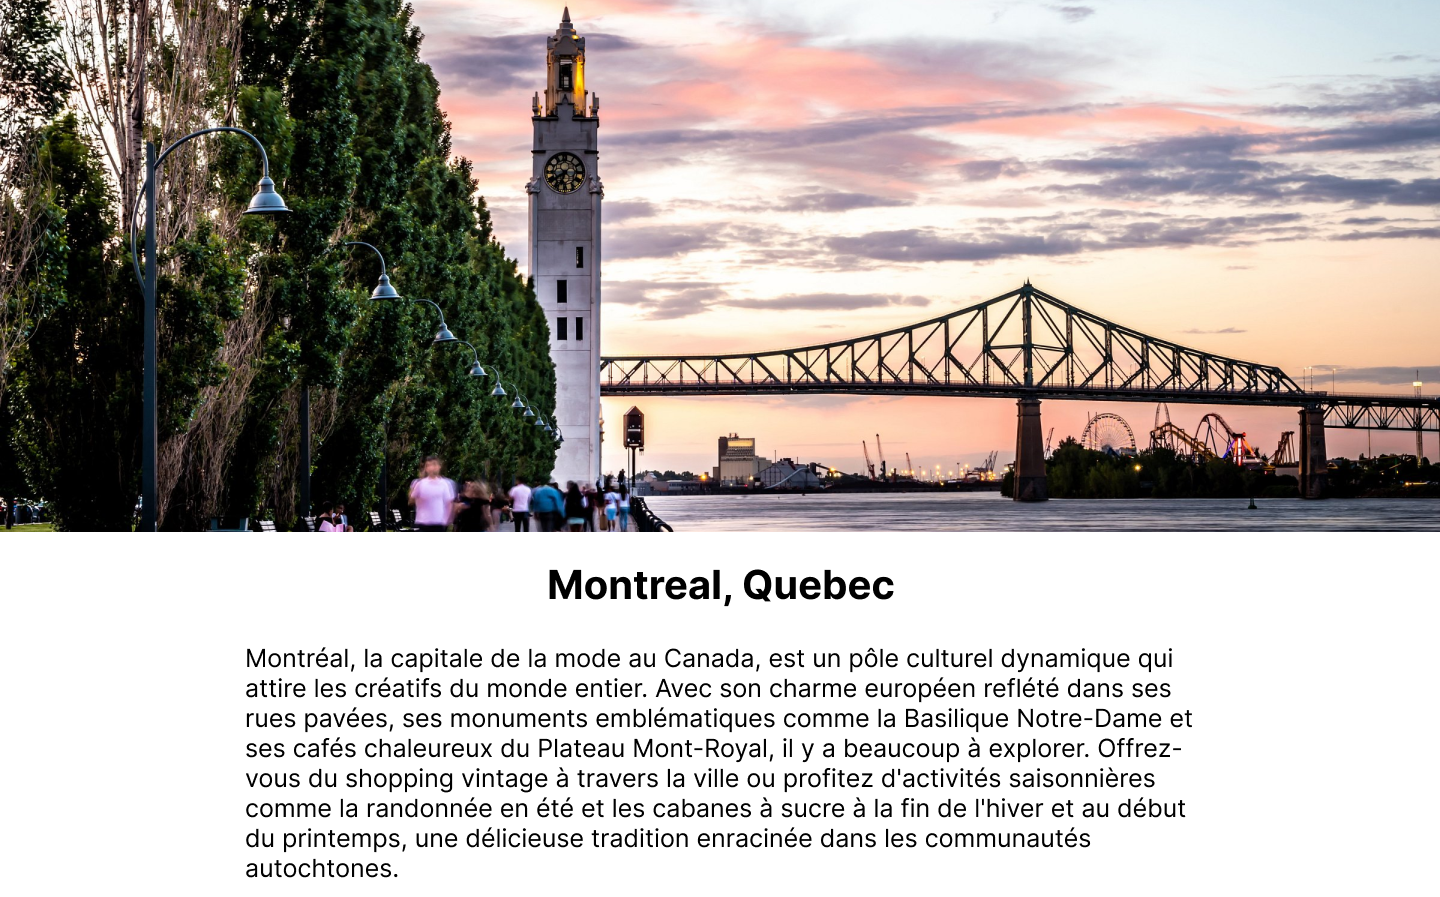
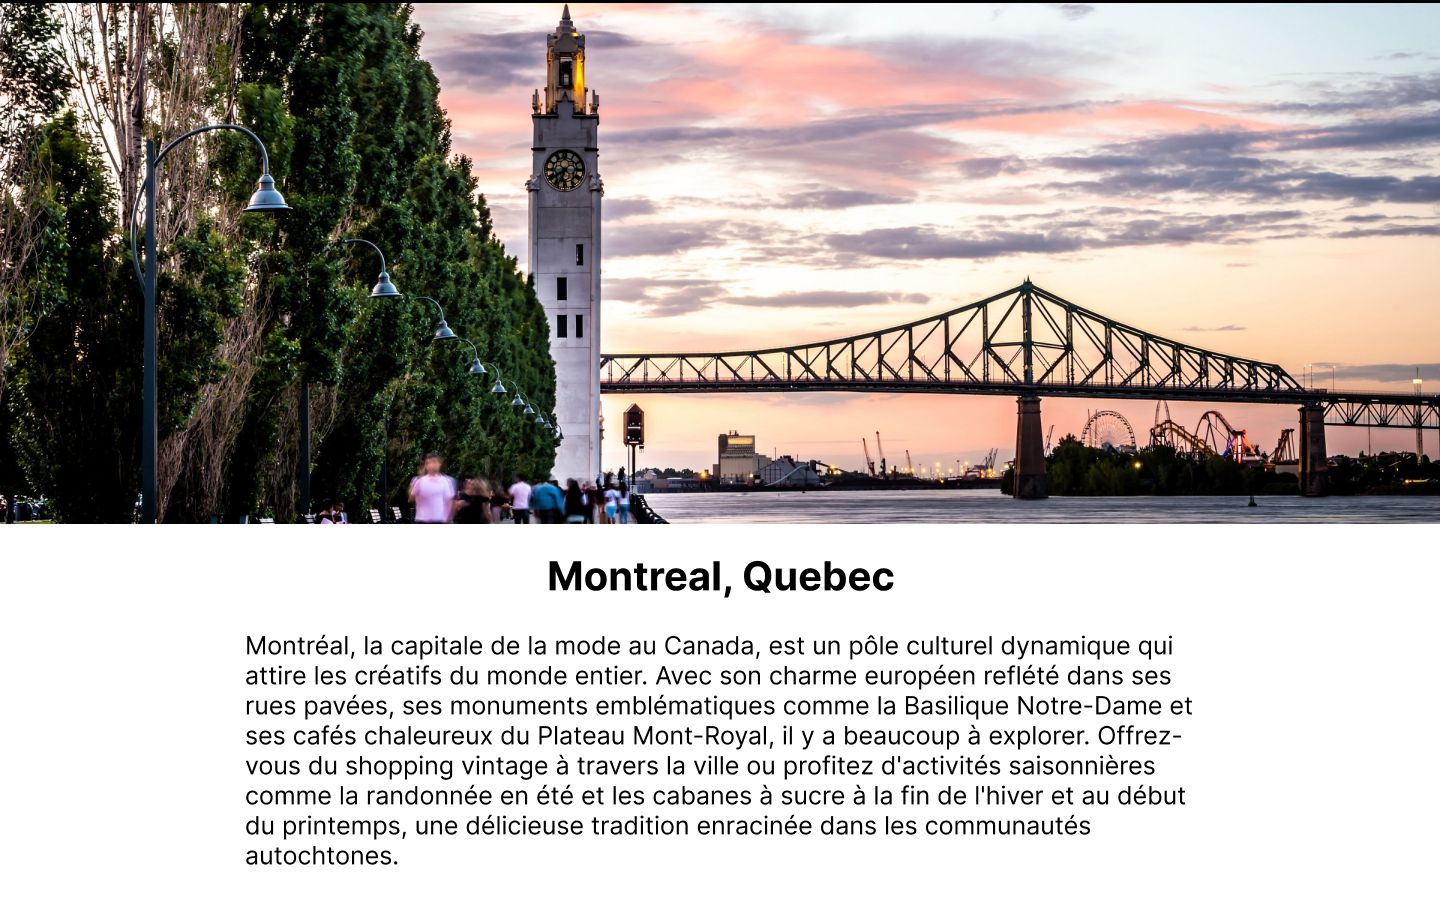
m

Changed region(s): [[0.0, 0.0, 1.0, 0.5931], [0.1562, 0.6243, 0.8438, 0.9989], [0.7188, 0.0936, 0.7812, 0.1249]]

diff --git a/MrCanadaData/French Montreal Restaurants/content.html b/MrCanadaData/French Montreal Restaurants/content.html
@@ -1,3 +1,3 @@
 <html>
-<img src= width="1080" height="338">
+<img src= width="1080" height="1013">
 </html>

diff --git a/MrCanadaData/French Toronto Restaurants/content.html b/MrCanadaData/French Toronto Restaurants/content.html
@@ -1,3 +1,3 @@
 <html>
-<img src= width="1080" height="935">
+<img src= width="1080" height="1013">
 </html>

diff --git a/MrCanadaData/French Montreal PlacesOfWorship/content.html b/MrCanadaData/French Montreal PlacesOfWorship/content.html
@@ -1,3 +1,3 @@
 <html>
-<img src= width="1080" height="336">
+<img src= width="1080" height="673">
 </html>

diff --git a/MrCanadaData/French DestinationCatalog/thumbnail.html b/MrCanadaData/French DestinationCatalog/thumbnail.html
@@ -1,3 +1,3 @@
 <html>
-<img src= width="219" height="19">
+<img src= width="200" height="50">
 </html>

diff --git a/MrCanadaData/French Montreal Back/thumbnail.html b/MrCanadaData/French Montreal Back/thumbnail.html
@@ -1,3 +1,3 @@
 <html>
-<img src= width="200" height="60">
+<img src= width="200" height="50">
 </html>

diff --git a/MrCanadaData/French Montreal/thumbnail.html b/MrCanadaData/French Montreal/thumbnail.html
@@ -1,3 +1,3 @@
 <html>
-<img src= width="200" height="60">
+<img src= width="187" height="60">
 </html>

diff --git a/MrCanadaData/French Quebec City Back/thumbnail.html b/MrCanadaData/French Quebec City Back/thumbnail.html
@@ -1,3 +1,3 @@
 <html>
-<img src= width="200" height="60">
+<img src= width="200" height="50">
 </html>

diff --git a/MrCanadaData/French Quebec City/thumbnail.html b/MrCanadaData/French Quebec City/thumbnail.html
@@ -1,3 +1,3 @@
 <html>
-<img src= width="150" height="35">
+<img src= width="250" height="60">
 </html>

diff --git a/MrCanadaData/French Toronto Back/thumbnail.html b/MrCanadaData/French Toronto Back/thumbnail.html
@@ -1,3 +1,3 @@
 <html>
-<img src= width="150" height="60">
+<img src= width="200" height="50">
 </html>

diff --git a/MrCanadaData/French Toronto FromDestinationCatalog/thumbnail.html b/MrCanadaData/French Toronto FromDestinationCatalog/thumbnail.html
@@ -1,3 +1,3 @@
 <html>
-<img src= width="170" height="60">
+<img src= width="187" height="60">
 </html>
